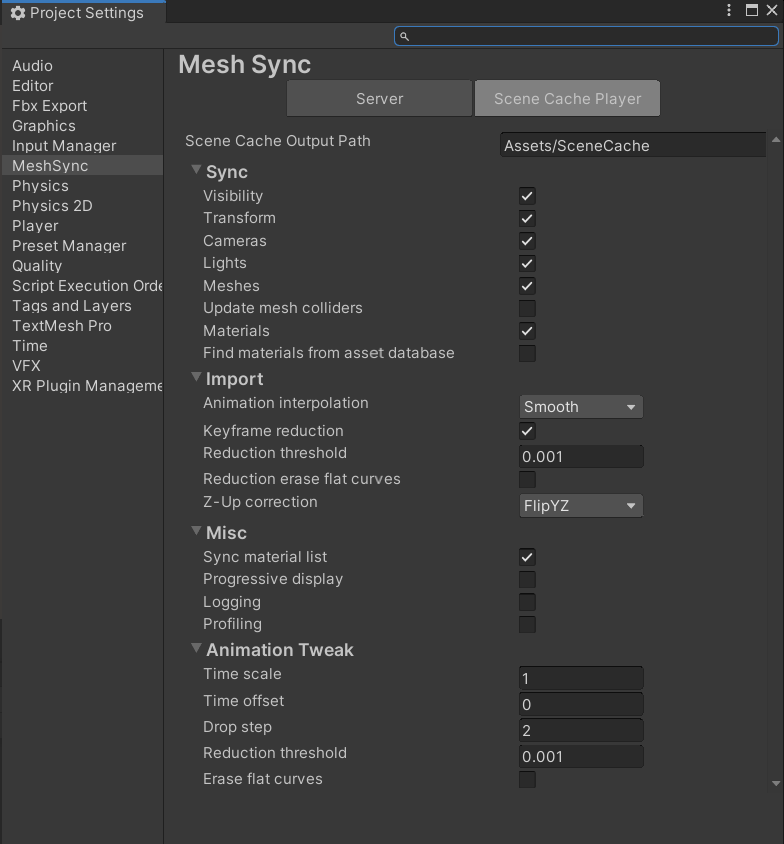
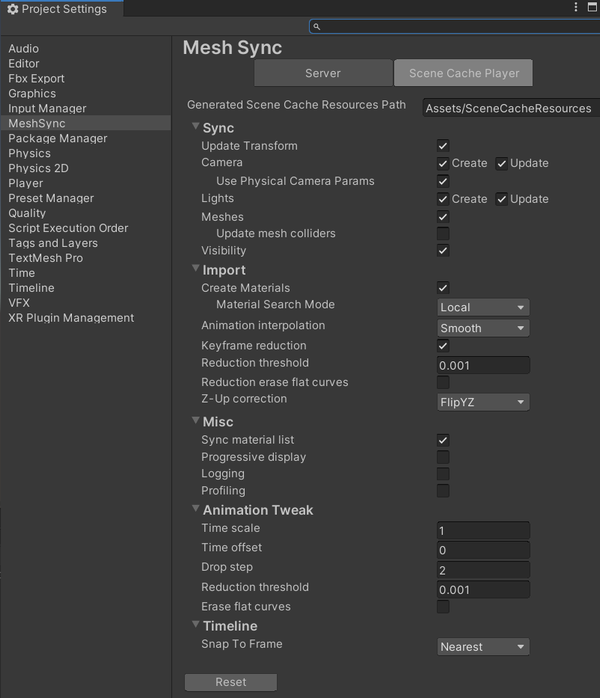
com.unity.meshsync@0.10.1-preview ## [0.10.1-preview] - 2021-11-17
### Added
* doc: add a section about SceneCache import settings

### Changed
* doc: update the documentation of MeshSync components (MeshSyncServer, SceneCachePlayer)
* doc: update ProjectSettings documentation

### Fixed
* fix: validate the asset folder of MeshSyncServer component
* fix: null check when changing an object's material in the Scene view

diff --git a/Editor/Scripts/MeshSyncServerInspector.cs b/Editor/Scripts/MeshSyncServerInspector.cs
@@ -64,10 +64,19 @@ internal class MeshSyncServerInspector : BaseMeshSyncInspector   {
             }
             GUILayout.EndHorizontal();
             EditorGUI.EndDisabledGroup();
-            
-            string selectedFolder = EditorGUIDrawerUtility.DrawFolderSelectorGUI("Asset Dir", "Asset Dir", 
-                t.GetAssetsFolder(), null);
-            t.SetAssetsFolder(AssetEditorUtility.NormalizePath(selectedFolder));
+
+            string prevFolder = t.GetAssetsFolder(); 
+            string selectedFolder = AssetEditorUtility.NormalizePath(
+                EditorGUIDrawerUtility.DrawFolderSelectorGUI("Asset Dir", "Asset Dir", prevFolder, null)
+            );
+            if (selectedFolder != prevFolder) {
+                if (string.IsNullOrEmpty(selectedFolder) || !AssetEditorUtility.IsPathNormalized(selectedFolder)) {
+                    Debug.LogError($"[MeshSync] {selectedFolder} is not under Assets. Ignoring.");  
+                } else {
+                    t.SetAssetsFolder(selectedFolder);
+                }
+                
+            }
             
             Transform rootObject = (Transform) EditorGUILayout.ObjectField("Root Object", t.GetRootObject(), 
                 typeof(Transform), allowSceneObjects: true);                

diff --git a/Runtime/Scripts/BaseMeshSync.cs b/Runtime/Scripts/BaseMeshSync.cs
@@ -2171,10 +2171,14 @@ public abstract class BaseMeshSync : MonoBehaviour, ISerializationCallbackReceiv
     private void OnSceneViewGUI(SceneView sceneView)
     {
         MeshSyncPlayerConfig config = GetConfigV();
-        if (config.SyncMaterialList) {
-            if (Event.current.type == EventType.DragExited && Event.current.button == 0)
-                CheckMaterialAssigned();
-        }
+        if (null == config) //may happen after deleting prefabs (SceneCache)
+            return;
+
+        if (!config.SyncMaterialList) 
+            return;
+        
+        if (Event.current.type == EventType.DragExited && Event.current.button == 0)
+            CheckMaterialAssigned();
     }
 #endif //UNITY_EDITOR
     #endregion

diff --git a/Runtime/Scripts/MeshSyncServer.cs b/Runtime/Scripts/MeshSyncServer.cs
@@ -153,6 +153,11 @@ public class MeshSyncServer : BaseMeshSync {
 
     protected override void OnAfterDeserializeMeshSyncPlayerV() {
         m_serverVersion = CUR_SERVER_VERSION;
+        
+        if (string.IsNullOrEmpty(GetAssetsFolder())) {
+            SetAssetsFolder(MeshSyncConstants.DEFAULT_ASSETS_PATH);
+        }
+        
     }   
     
 //----------------------------------------------------------------------------------------------------------------------

diff --git a/Documentation~/CommonMeshSyncProperties.md b/Documentation~/CommonMeshSyncProperties.md
@@ -1,0 +1,126 @@
+# Common MeshSync Properties
+
+These properties are shared by multiple components in this package.
+
+1. [Asset Sync Settings](#asset-sync-settings)
+1. [Import](#import)
+1. [Misc](#misc)
+1. [Material List](#material-list)
+1. [Animation Tweaks](#animation-tweaks)
+1. [Export Assets](#export-assets)
+
+## Asset Sync Settings
+
+![](images/MeshSyncAssetSyncProperties.png)
+
+|**Properties** |**Description** |
+|:---       |:---|
+| Update Transform      | updates the position, rotation, and scale of each **GameObject**.|
+| Cameras               | **Create**: create camera **GameObjects**. <br/> **Update**: update camera properties.|
+| Use Physical Params   | update physical camera properties.|
+| Cameras               | **Create**: create light **GameObjects**. <br/> **Update**: update light properties.|
+| Meshes                | create and update the MeshRenderer or SkinnedMeshRenderer component of applicable **GameObjects**.|
+| Update Mesh Colliders | create and update MeshCollider properties of **GameObjects** which have meshes if the meshes are updated.|
+| Visibility            | enable/disable relevant components based on the visibility flag in the source data.|
+
+> Tips: disabling **Sync Meshes** brings better performance, and is recommended if syncing meshes is not necessary, 
+> for example, when editing only the pose/animation.
+
+## Import 
+   
+![](images/MeshSyncImportProperties.png)
+
+- **Create Materials**: finds existing materials based on their names using the **Search Mode**
+  and applies them to relevant **GameObjects**.  
+  If the material is not found, then a new material is created.  
+  All materials are always added to the [material list](#material-list) of the component.
+
+  |**Search Mode**  |**Description** |
+  |:---             |:---|
+  | Local           | search in the local folder of the MeshSync component.|
+  | Recursive-Up    | search starting from the local folder of the MeshSync component up to the Assets folder.|
+  | Everywhere      | search in all Unity Project folders.|
+
+- **Animation Interpolation**: sets the animation interpolation method.   
+
+  |**Values** |**Description** |
+  |:---       |:---|
+  | Smooth    | smoothly interpolate animation curves.|
+  | Linear    | do linear interpolation between neighboring animation keys.|
+  | Constant  | disable interpolation.|
+
+  > For use cases in film productions, "Constant" may be preferable to match 
+  > the number of animation samples to the target framerate on the DCC side.
+
+
+- **Keyframe Reduction**: performs keyframe reduction when importing animations.  
+  - **Threshold**: the error tolerance.   
+    Higher threshold means less number of keys and higher errors, and vice versa.   
+  - **Erase Flat Curves**: delete curves that have no change (flat).
+  
+- **Z-Up Correction**  
+  Specifies how to convert Z-Up to Y-Up for data from DCC tools 
+  which have Z-Up coordinate system (3ds Max, Blender, etc).
+
+  |**Values**     |**Description** |
+  |:---           |:---|
+  | **Flip YZ**   | converts all vertices of Transform and Mesh to Y-Up.|
+  | **Rotate X**  | converts the root object's Transform to a Y-Up by applying a -90 X axis rotation to the root object, leaving the mesh in Z-Up.|
+
+  > **Flip YZ** works better in most cases.   
+  > For reference, Unity's standard FBX Importer does the equivalent of **Rotate X**.
+
+## Misc 
+   
+![](images/MeshSyncMiscProperties.png)
+
+- **Sync Material List**  
+  When enabled, changing an object's material in the Scene view will update the [material list](#material-list),
+  and other objects which use the previous material will be updated to use the new material.
+
+- **Progressive Display**  
+
+  |**Values** |**Description** |
+  |:---       |:---|
+  | On        | scene updates will be reflected while receiving data in real-time.|
+  | Off       | updates will be reflected after all of the scene data is received.|
+
+## Material List
+   
+![](images/MeshSyncMaterialsProperties.png)
+
+This material list holds all the materials that are used by this component.   
+Changing a material in this list will update objects that use the previous material 
+to use the new material.
+
+**Import List** and **Export List** buttons are used to load and save material lists.    
+
+
+## Animation Tweaks 
+
+![](images/MeshSyncAnimationTweakProperties.png)
+
+Properties to tweak animations.
+
+- **Override Frame Rate**    
+  Changes the frame rate while keeping the key time or the animation length.    
+
+  > Tips: playing a 24 FPS animation without interpolation when targetting 60 FPS will cause jittery movements.  
+  > Changing the animation to 120 FPS is one possible approach to mitigate it. 
+     
+- **Time Scale**       
+  - **Scale**: applies time scaling.   
+    For example, applying 0.5 will double the speed.  
+  - **Offset**: adds an offset for the specified seconds.    
+    For example, applying a scale of -1 and an offset of -5 to a 5 second animation will result in reverse playback.    
+- **Drop Keyframes**: drops keyframes.   
+  For example, if we apply **Step=2** to an animation with 30 keystrokes, then the odd frames will be removed and the animation will become 15 frames.   
+  Similarly, if **Step=3**, then the animation will become 10 frames.
+
+## Export Assets 
+
+![](images/MeshSyncExportAssetsProperties.png)
+  
+Export meshes and materials into asset files, in order to reuse them in other scenes or projects.  
+Normally, meshes and materials hold by this component only exist in the active scene.
+

diff --git a/Documentation~/MeshSyncServer.md b/Documentation~/MeshSyncServer.md
@@ -8,7 +8,7 @@ installed in the appropriate DCC tool.
 
 ## Properties
 
-![Menu](images/MeshSyncServer.png)
+![Menu](images/MeshSyncServerProperties.png)
 
 - **Auto Start**  
 
@@ -20,86 +20,14 @@ installed in the appropriate DCC tool.
   > Caveat: in a public network, other users will have access to MeshSync as well when the server is running. 
   > For example: they may view our Unity screen.
 
+- **Asset Dir**  
+  The local folder of the component where synced assets will be created. 
+
 - **Root Object**  
   Designate a **GameObject** as the root for objects generated by the sync process.  
   If empty, the objects will be created in the root. 
 
-- **Sync Visibility, Sync Transform, etc.**  
-  Settings for enabling/disabling the sync of the applicable properties, which can be used to confirm specific results.  
-  For example, unchecking **Sync Transform** will let us confirm
-  the physics simulation behavior in Play mode accurately.
-
-  - **Update Mesh Colliders**  
-    If enabled and the mesh is updated, MeshCollider properties will be updated as well.
-
-  > Disabling **Sync Meshes** brings better performance, and is recommended if syncing meshes is not necessary, 
-  > for example, when editing only the pose/animation.
-
-- **Animation Interpolation**: sets the animation interpolation method.   
-
-  |**Values** |**Description** |
-  |:---       |:---|
-  | Smooth    | smoothly interpolate animation curves.|
-  | Linear    | do linear interpolation between neighboring animation keys.|
-  | Constant  | disable interpolation.|
-
-  > For use cases in film productions, "Constant" may be preferable to match 
-  > the number of animation samples to the target framerate on the DCC side.
-
-
-- **Keyframe Reduction**: performs keyframe reduction when importing animations.  
-  - **Threshold**: the error tolerance.   
-    Higher threshold means less number of keys and higher errors, and vice versa.   
-  - **Erase Flat Curves**: delete curves that have no change (flat).
-  
-- **Z-Up Correction**  
-  Specifies how to convert Z-Up to Y-Up for data from DCC tools 
-  which have Z-Up coordinate system (3ds Max, Blender, etc).
-
-  |**Values** |**Description** |
-  |:---       |:---|
-  | Flip YZ   | converts all vertices of Transform and Mesh to Y-Up.|
-  | Rotate X  | converts the root object's Transform to a Y-Up by <br/>applying a -90 X axis rotation to the root object, <br/> leaving the mesh in Z-Up.|
-
-  > "Flip YZ" works better in most cases.   
-  > For reference, Unity's standard FBX Importer does the equivalent of "Rotate X".
-
-- **Sync Material List**  
-  When enabled, changing an object's material in the Scene view will update the material list (see below),
-  and other objects which use the previous material will be updated to use the new material.
-
-- **Progressive Display**  
-
-  |**Values** |**Description** |
-  |:---       |:---|
-  | On        | scene updates will be reflected while receiving data in real-time.|
-  | Off       | updates will be reflected after all of the scene data is received.|
-
-- **Material List**  
-  Changing a material in this list will update objects using the previous material 
-  to use the new material.
-
-  Saving and loading materials lists can be done with **Import List** and **Export List** buttons.   
-
-- **Animation Tweak** : various animation adjustments.
-  - **Override Frame Rate**    
-    Changes the frame rate while keeping the key time or the animation length.    
-
-    > Tips: playing a 24 FPS animation without interpolation when targetting 60 FPS will cause jittery movements.   
-    > Changing the animation to 120 FPS is one possible approach to mitigate it. 
-     
-  - **Time Scale**       
-    - **Scale**: applies time scaling.   
-      For example, applying 0.5 will double the speed.  
-    - **Offset**: adds an offset for the specified seconds.    
-       For example, applying a scale of -1 and an offset of -5 to a 5 second animation will result in reverse playback.    
-  - **Drop Keyframes**: drops keyframes.   
-    If we apply **Step=2** to an animation with 30 keystrokes, then the odd frames will be removed and the animation will become 15 frames.   
-    Similarly, if **Step=3**, then the animation will become 10 frames.
-  
-- **Export Assets**  
-  Export meshes/materials into asset files, in order to reuse them in other scenes or projects.  
-  Normally, meshes/materials synced using MeshSync only exist in the active scene.
+Please refer to [common properties](CommonMeshSyncProperties.md) for details on the other properties.
 
 ## Tips
 

diff --git a/Documentation~/SceneCache.md b/Documentation~/SceneCache.md
@@ -13,7 +13,8 @@ but it has the following differences:
 ## How to use
 
 From the menu, select **Game Object > MeshSync > Create Cache Player**, 
-and then select the *.sc* file exported by the DCC tool.  
+and then select a previously exported *.sc* file, 
+which can be either inside or outside the Unity project.  
 This will automatically create a GameObject with 
 [SceneCachePlayer](#scene-cache-player) component, 
 which will be played automatically in PlayMode.
@@ -25,13 +26,22 @@ Normally, the playback is controlled using an
 [*AnimationClip*](https://docs.unity3d.com/ScriptReference/AnimationClip.html), but 
 we can also control the playback of [Scene Cache in Timeline](SceneCacheInTimeline.md).
 
+## Scene Cache Importer 
+
+![](images/SceneCacheImporter.png)
+
+When an *.sc* file is inside the Unity project, clicking on the *.sc* file 
+will open its import settings in the inspector.
+These import settings are similar to the [import properties](CommonMeshSyncProperties.md#import) in the inspector, 
+and can be overridden in the inspector as well.
+
 ## Scene Cache Player 
 
 This component handles the playback of an *.sc* file. 
 
 ### Properties
 
-<img align="right" src="images/SceneCachePlayer.png" height="480">
+![](images/SceneCachePlayer.png)
 
 - **Cache File Path**: the path to the *.sc* file.  
   Copying the cache file to StreamingAssets is recommended, and can be done by simply clicking the **Copy** button.  
@@ -47,10 +57,7 @@ This component handles the playback of an *.sc* file.
   Smoothens animations by interpolating the meshes and transforms between neighboring frames.   
   Note that meshes are only interpolated if the topologies match (the vertex indexes remain unchanged).
 
-SceneCache shares a lot of properties with MeshSyncServer.  
-Please refer to [MeshSyncServer](MeshSyncServer.md)'s documentation for more details.
-
-
+Please refer to [common properties](CommonMeshSyncProperties.md) for details on the other properties.
 
 ### Tips
 

diff --git a/Documentation~/ProjectSettings.md b/Documentation~/ProjectSettings.md
@@ -8,14 +8,15 @@
 ![ProjectSettingsServer](images/ProjectSettingsServer.png)
 
 Use the **Server** tab to set the default setting values for 
-**MeshSyncServer** component, and connection-related settings.
+**MeshSyncServer** component.
 
 |**Connection Settings**   |**Description** |
 |:---                      |:---|
 | **Server Port**          | The default server port.|
-| **Allow public access**  | Allows public access to MeshSync. <br/> By default, this setting is turned off, and only computers in local network     (127.0.0.1, 10.0.0.0/24, 192.168.0.0/16 or 172.16.0.0 to 172.31.255.255) can connect to MeshSync. |
+| **Allow public access**  | Allows public access to **MeshSyncServer**. <br/> By default, this setting is turned off, and only computers in local network     (127.0.0.1, 10.0.0.0/24, 192.168.0.0/16 or 172.16.0.0 to 172.31.255.255) can connect to **MeshSyncServer**. |
 
-Please refer to [MeshSyncServer](MeshSyncServer.md)'s documentation 
+Please refer to [MeshSyncServer](MeshSyncServer.md) 
+or [Common MeshSync Properties](CommonMeshSyncProperties.md)'s documentations 
 for more details on the other settings.
 
 
@@ -24,8 +25,9 @@ for more details on the other settings.
 ![ProjectSettingsSceneCache](images/ProjectSettingsSceneCache.png)
 
 Use the **Scene Cache Player** tab to set the default setting values for 
-**SceneCachePlayer** component.   
-Please refer to [SceneCache](SceneCache.md)'s documentation 
+**SceneCachePlayer** component.  
+Please refer to [SceneCache](SceneCache.md) 
+or [Common MeshSync Properties](CommonMeshSyncProperties.md)'s documentations    
 for more details on these settings.
 
 

diff --git a/CHANGELOG.md b/CHANGELOG.md
@@ -1,6 +1,19 @@
 # Changelog
 All notable changes to the MeshSync package will be documented in this file.
 
+## [0.10.1-preview] - 2021-11-17
+
+### Added
+* doc: add a section about SceneCache import settings
+
+### Changed
+* doc: update the documentation of MeshSync components (MeshSyncServer, SceneCachePlayer)
+* doc: update ProjectSettings documentation
+
+### Fixed
+* fix: validate the asset folder of MeshSyncServer component
+* fix: null check when changing an object's material in the Scene view
+
 ## [0.10.0-preview] - 2021-11-10
 
 ### Added

diff --git a/Documentation~/TableOfContents.md b/Documentation~/TableOfContents.md
@@ -4,5 +4,6 @@
     * [MeshSyncServer](MeshSyncServer.md)
     * [SceneCache](SceneCache.md)
       * [SceneCache in Timeline](SceneCacheInTimeline.md)
+    * [Common MeshSync Properties](CommonMeshSyncProperties.md)      
 * [Project Settings](ProjectSettings.md)
 * [Preferences](Preferences.md)
